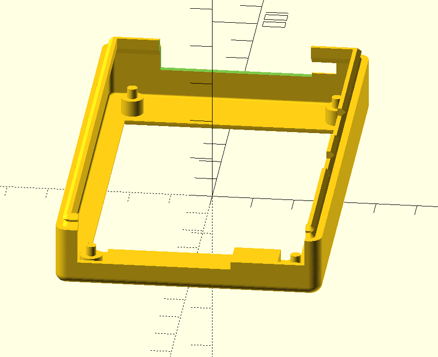
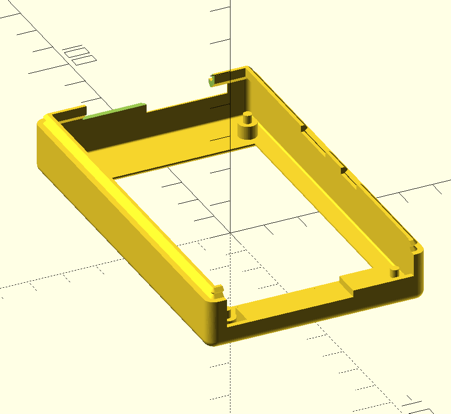
update slot design

diff --git a/remix_thing_2160917_octopi_rig_top_ribbon_cable_opening/README.md b/remix_thing_2160917_octopi_rig_top_ribbon_cable_opening/README.md
@@ -7,10 +7,6 @@ Description: Add an opening for egress of GPIO ribbon cable via the internal 3.5
 
 ![slot version](img/slot_object_render.png)
 
-<!-- only the slot version is useful -->
-
-<!-- ![hole version](img/hole_object_render.png) -->
-
 Notes
 -----
 
